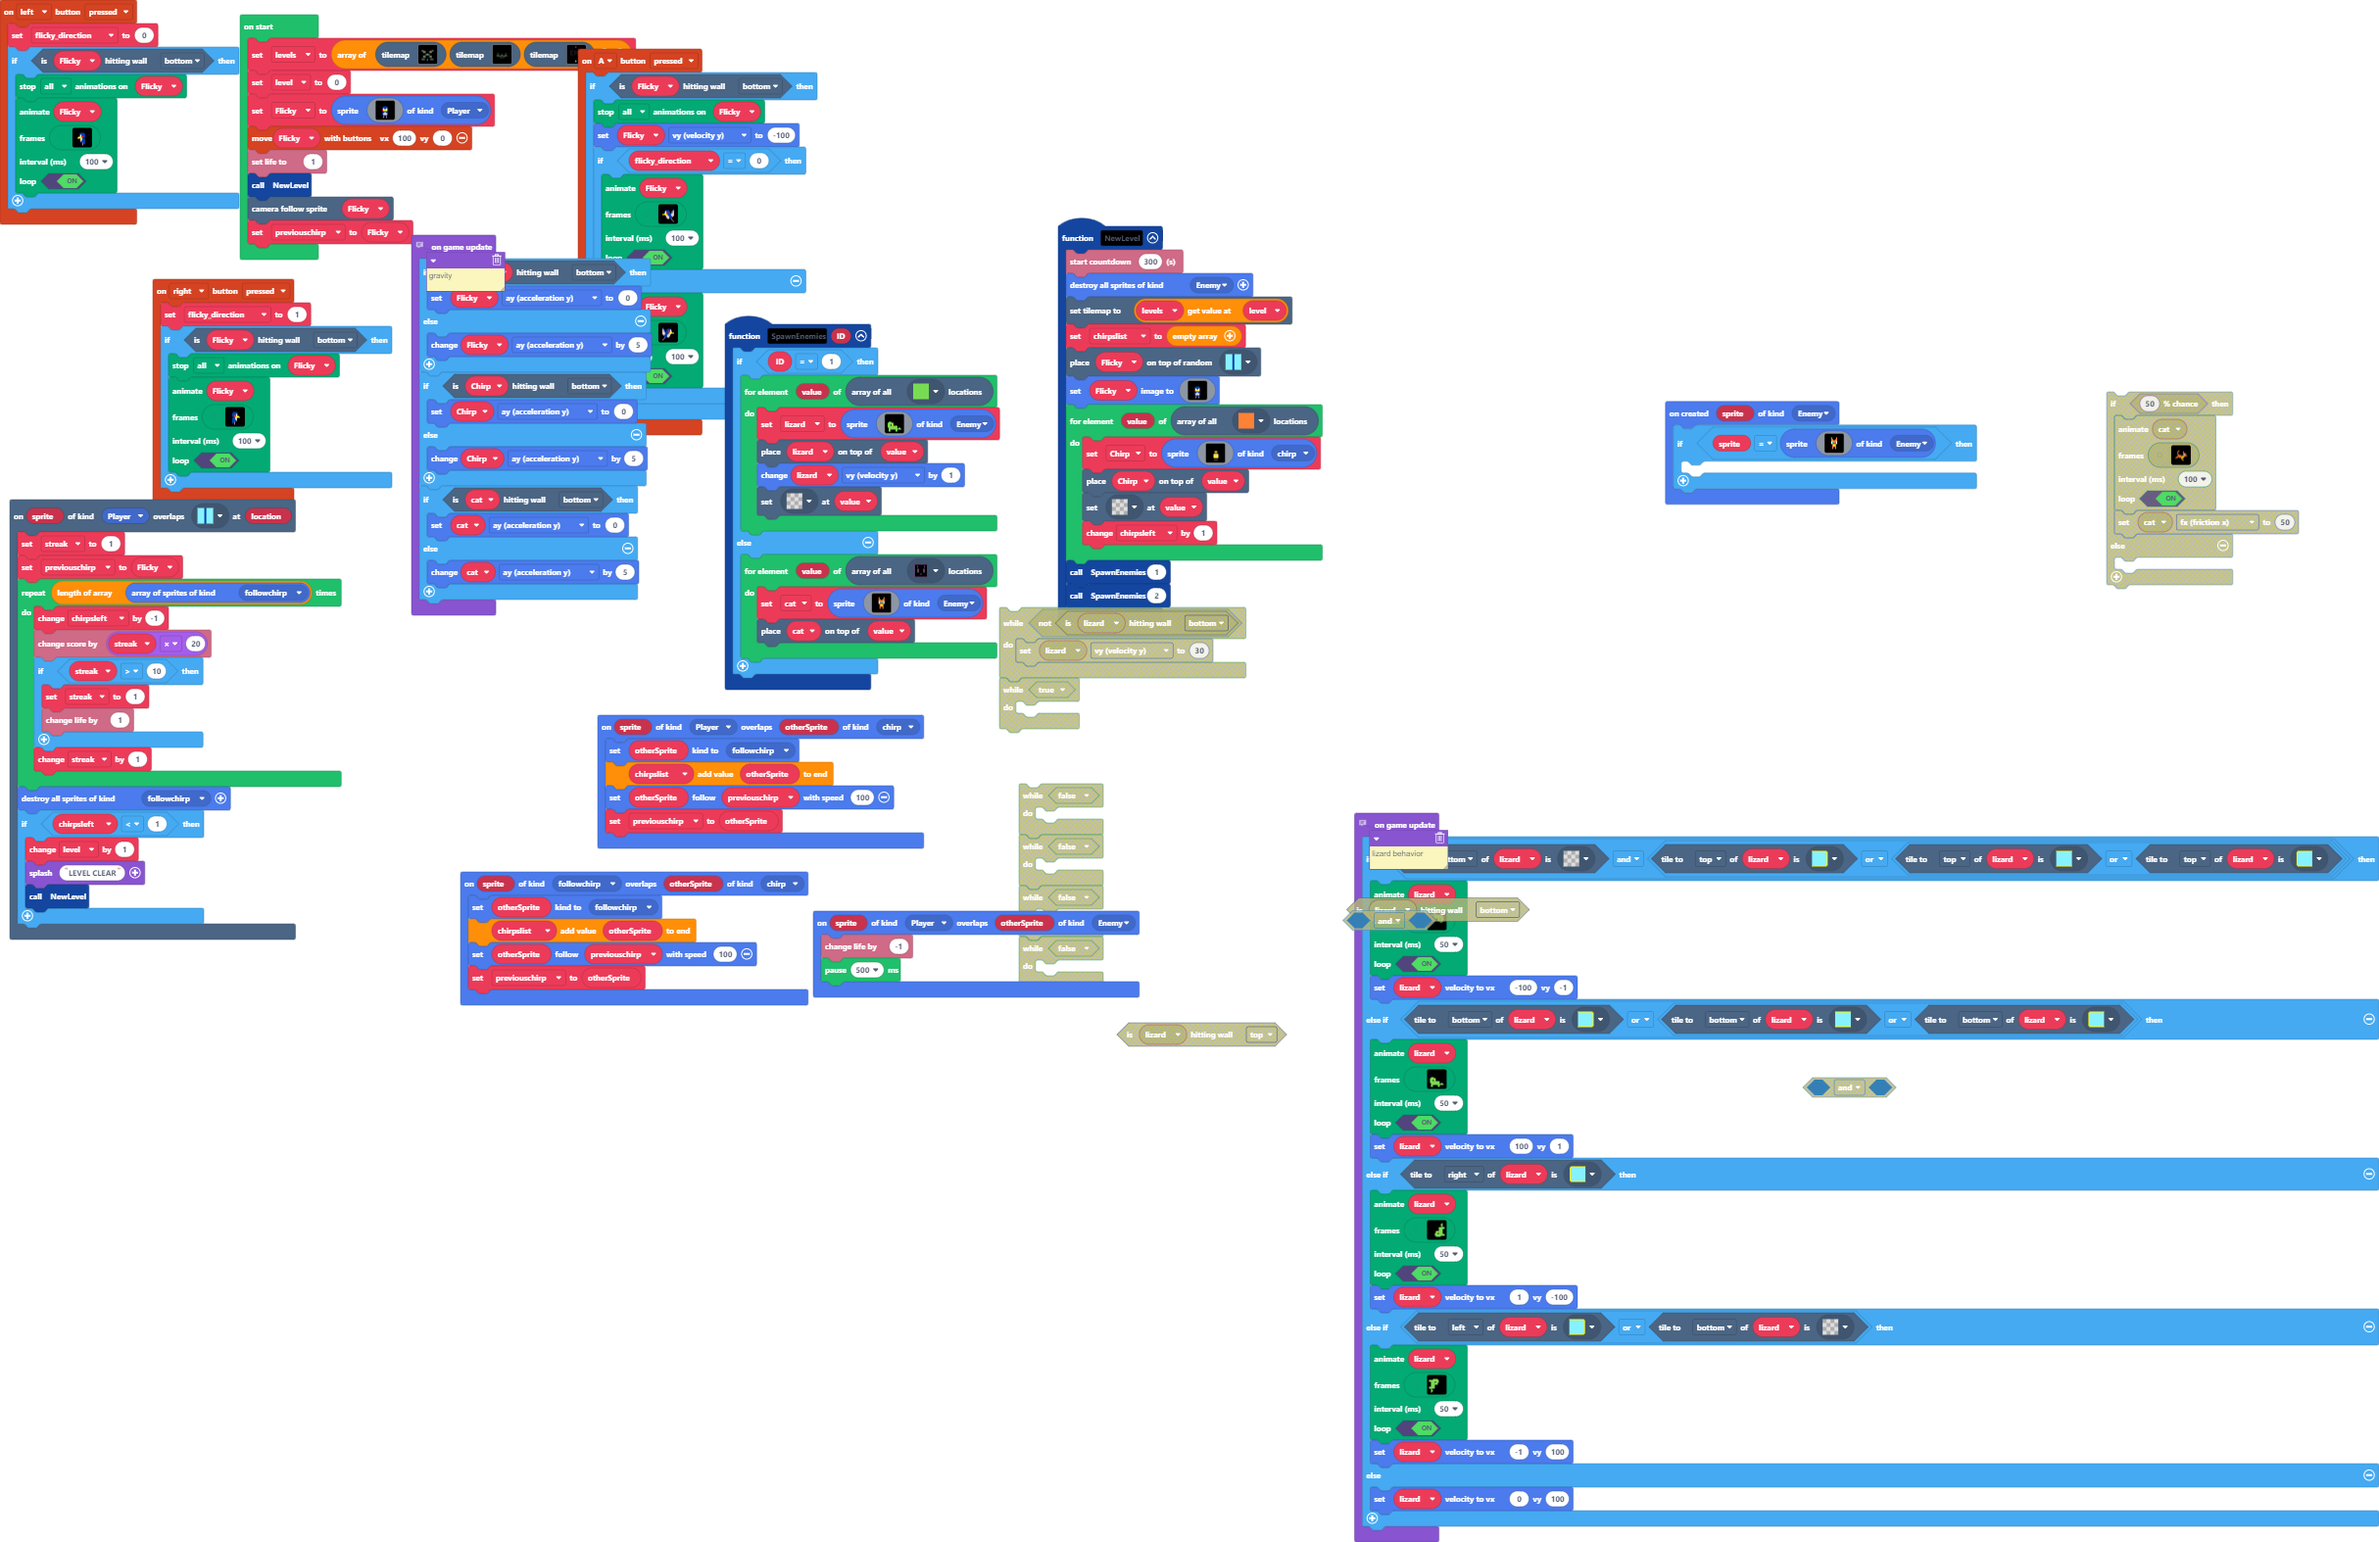
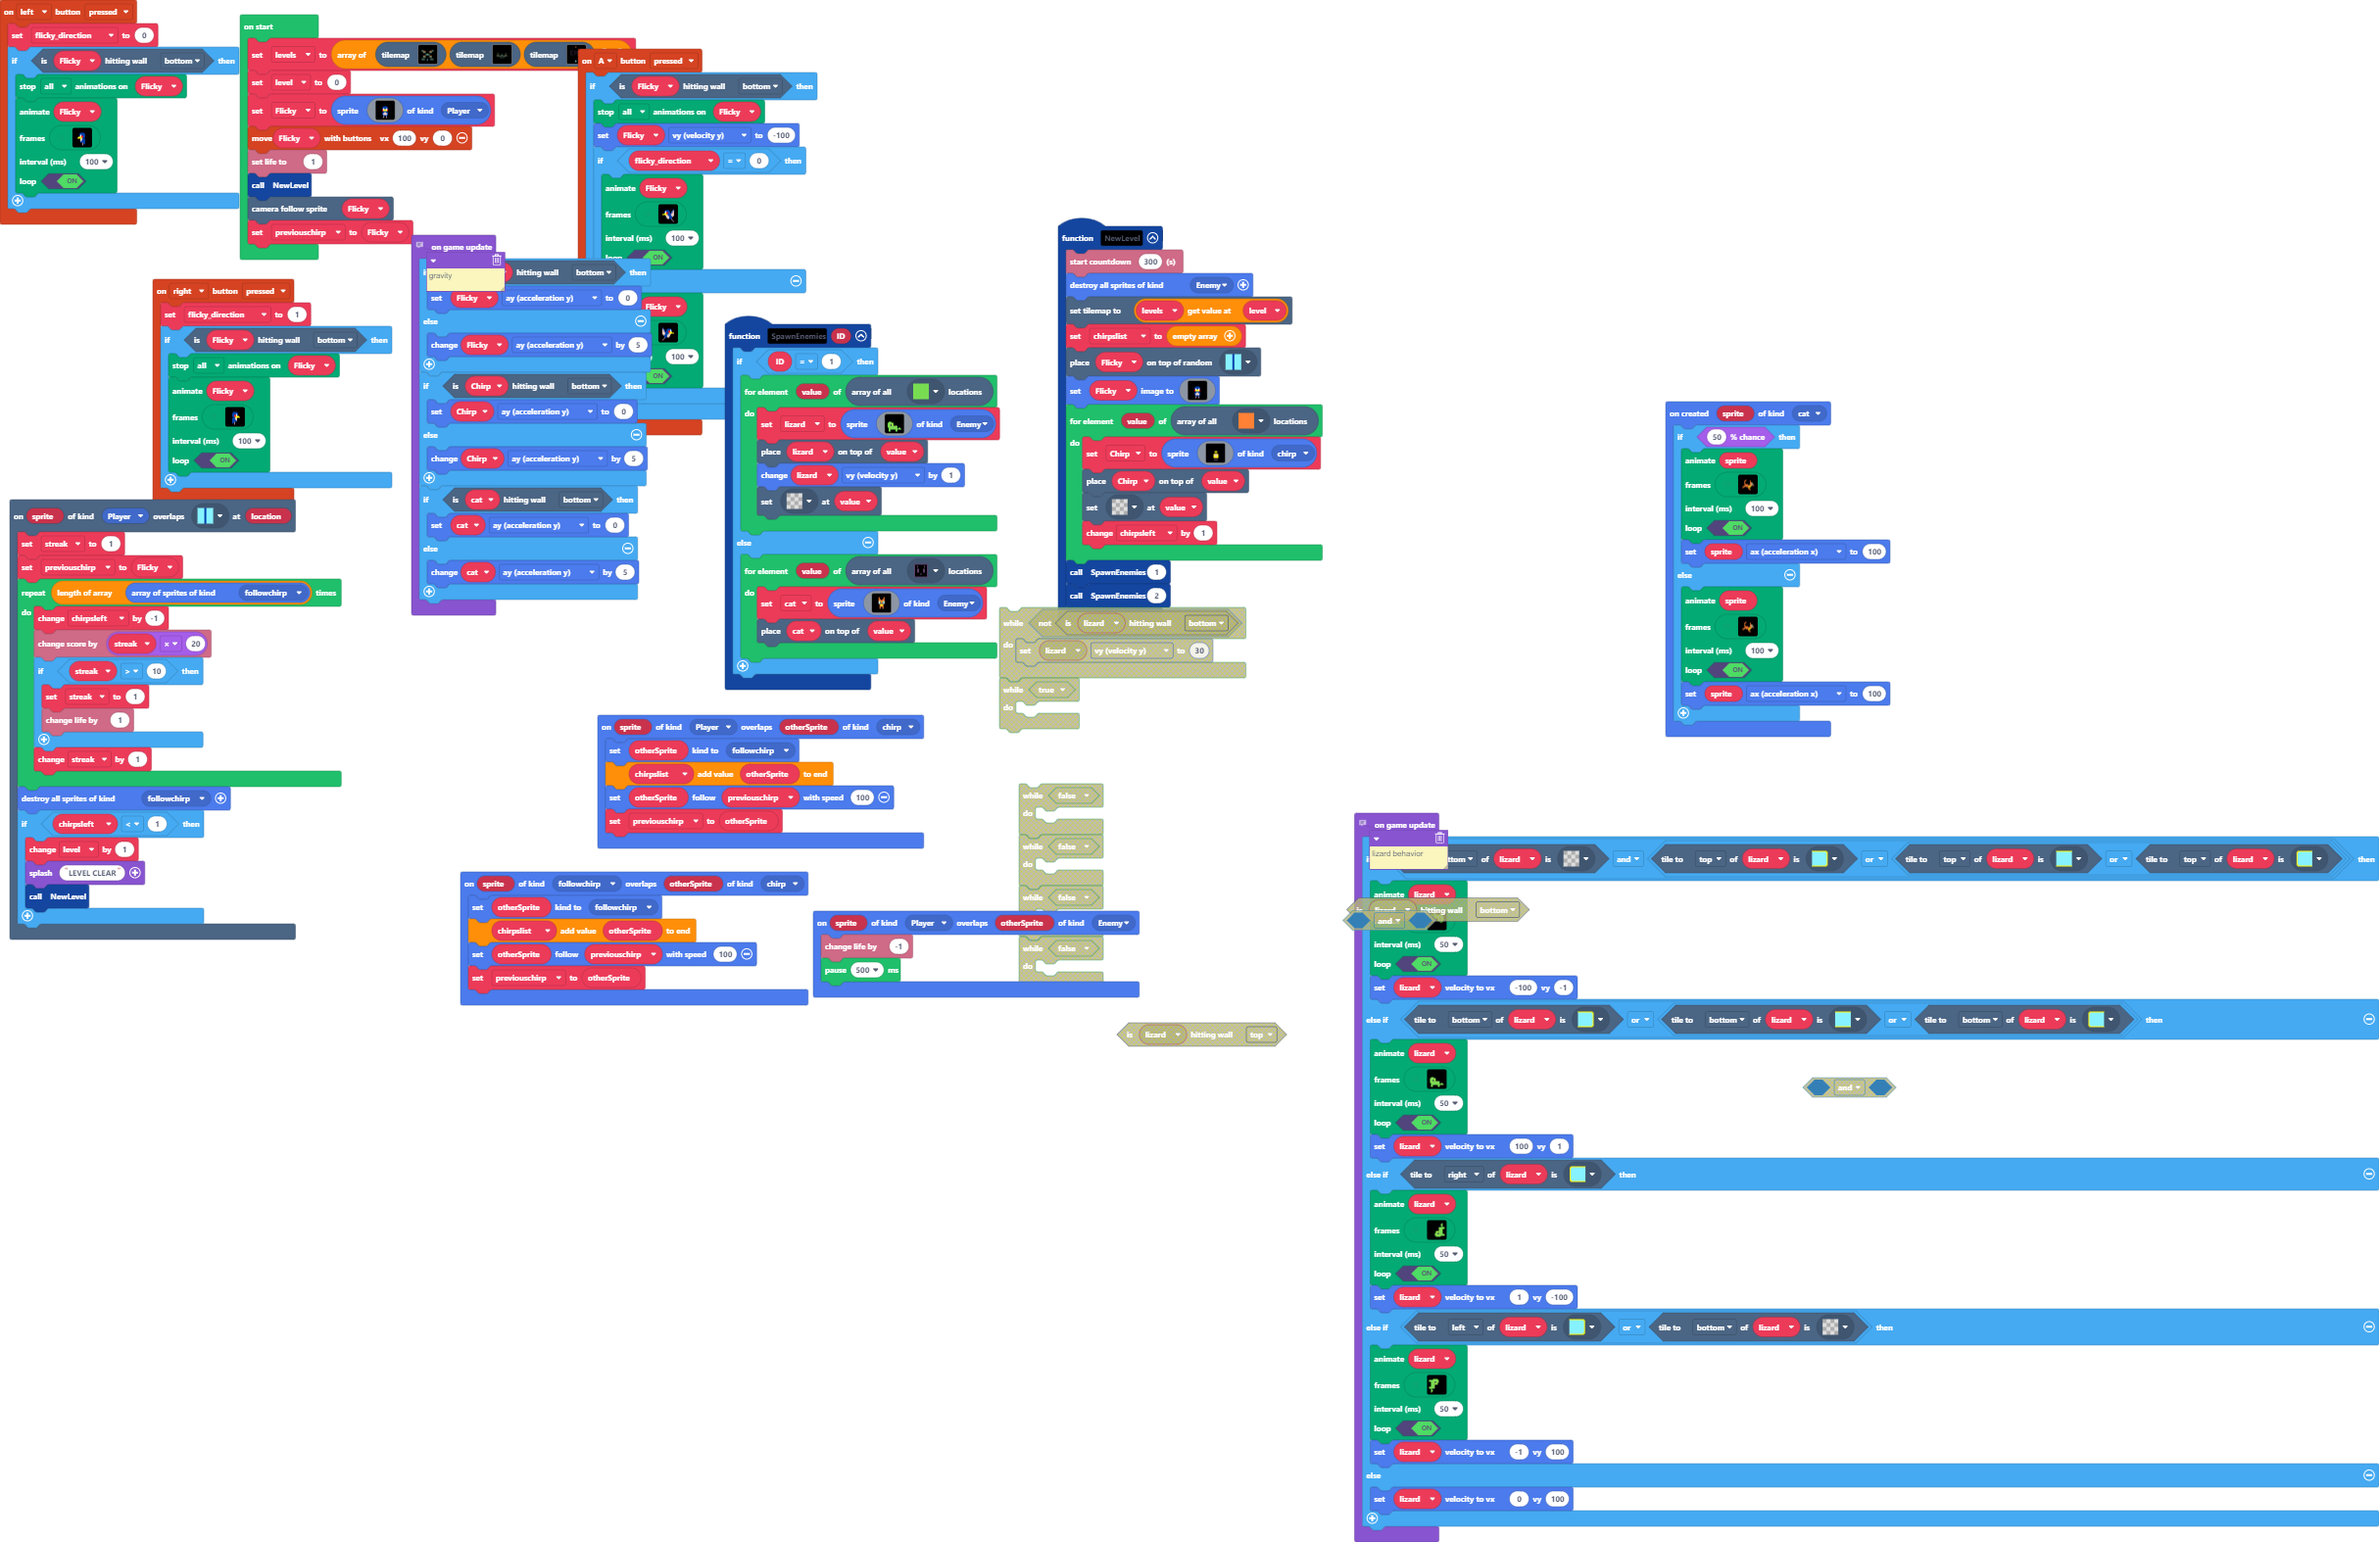
cat part 1

Changed region(s): [[0.6796, 0.249, 0.834, 0.4981], [0.8649, 0.249, 0.9576, 0.4047]]

diff --git a/main.ts b/main.ts
@@ -7,12 +7,8 @@ enum ActionKind {
 namespace SpriteKind {
     export const chirp = SpriteKind.create()
     export const followchirp = SpriteKind.create()
+    export const cat = SpriteKind.create()
 }
-sprites.onCreated(SpriteKind.Enemy, function (sprite) {
-    if (sprite == sprites.create(assets.image`cat_enemy_front`, SpriteKind.Enemy)) {
-    	
-    }
-})
 scene.onOverlapTile(SpriteKind.Player, assets.tile`doorsmiddle`, function (sprite, location) {
     streak = 1
     previouschirp = Flicky
@@ -47,6 +43,25 @@ function SpawnEnemies (ID: number) {
         }
     }
 }
+sprites.onCreated(SpriteKind.cat, function (sprite) {
+    if (Math.percentChance(50)) {
+        animation.runImageAnimation(
+        sprite,
+        assets.animation`cat_runright`,
+        100,
+        true
+        )
+        sprite.ax = 100
+    } else {
+        animation.runImageAnimation(
+        sprite,
+        assets.animation`cat_runright`,
+        100,
+        true
+        )
+        sprite.ax = 100
+    }
+})
 controller.A.onEvent(ControllerButtonEvent.Pressed, function () {
     if (Flicky.isHittingTile(CollisionDirection.Bottom)) {
         animation.stopAnimation(animation.AnimationTypes.All, Flicky)
